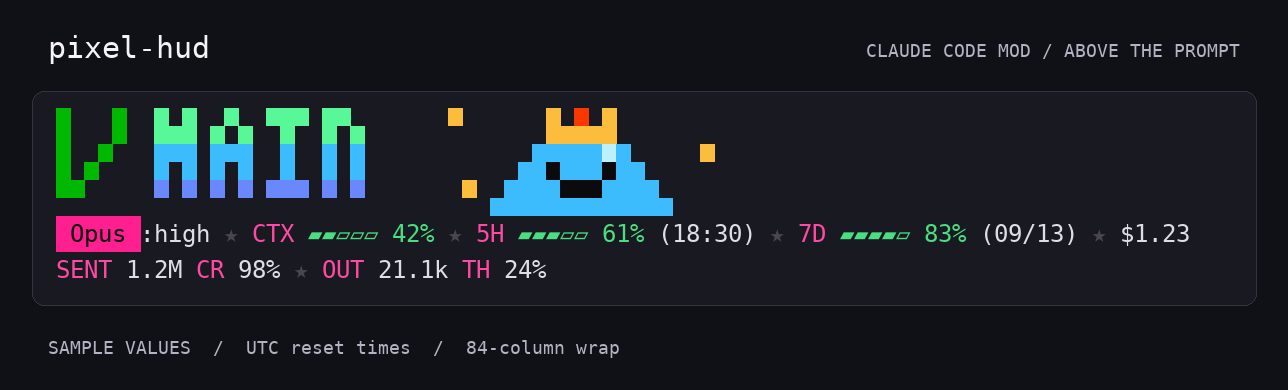
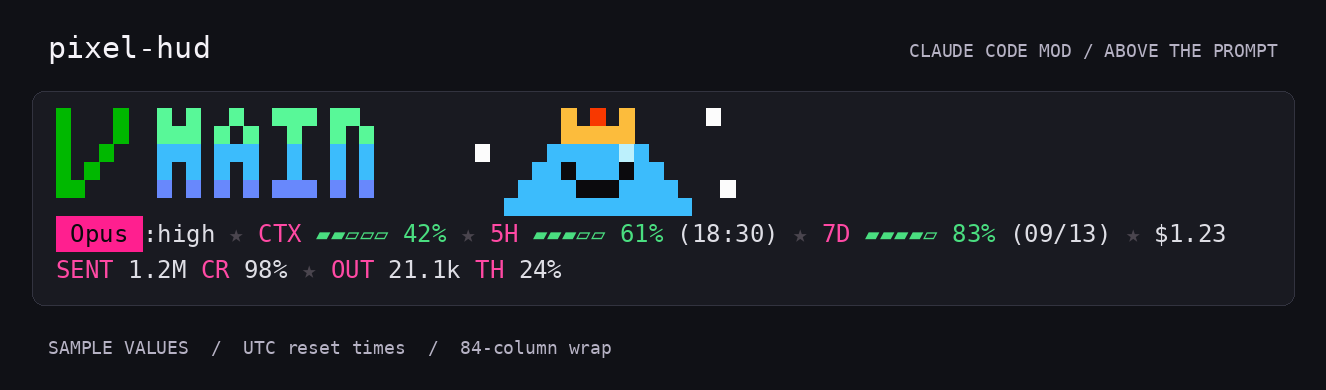
docs: King Slime show as a GIF, rendered tick by tick from the mod

diff --git a/docs/showcase/render_mod.py b/docs/showcase/render_mod.py
@@ -21,6 +21,8 @@ parser = argparse.ArgumentParser(description=__doc__)
 parser.add_argument("--font", default="/usr/share/fonts/truetype/dejavu/DejaVuSansMono.ttf")
 parser.add_argument("--king", action="store_true",
                     help="draw the King Slime show after a long task (pixel-hud-king.png)")
+parser.add_argument("--gif", action="store_true",
+                    help="animate the whole King Slime show, one frame a tick (pixel-hud-king.gif)")
 args = parser.parse_args()
 font = ImageFont.truetype(args.font, 24)
 small = ImageFont.truetype(args.font, 18)
@@ -58,6 +60,7 @@ COLUMNS = 84
 
 SHOWCASE_TEST = """
 import { mock, test } from 'claude-code/testing'
+import { KING_SHOW_TICKS } from './slime'
 
 test('showcase', async ($, on) => {
   on('process.run', async (_$, e) => ({
@@ -98,7 +101,18 @@ test('showcase', async ($, on) => {
     await ui.unmount()
     ui = await $.ui.mount({ plugin: 'pixel-hud', surface: 'terminal', component: 'AbovePrompt', props })
   }
-  console.log('SHOWCASE' + JSON.stringify(await ui.drawn()))
+  if (FRAMES > 0) {
+    // A task of a minute ends; one drawing a tick, from the slimes at rest
+    // through the whole show and home again.
+    console.log('SHOWCASE' + JSON.stringify(await ui.drawn()))
+    await $.turn.complete({ answer: '', durationMs: 60_000, isAborted: false, turnId: 't', reason: 'answer' })
+    for (let i = 0; i < FRAMES; i += 1) {
+      await ui.unmount()
+      ui = await $.ui.mount({ plugin: 'pixel-hud', surface: 'terminal', component: 'AbovePrompt', props })
+      console.log('SHOWCASE' + JSON.stringify(await ui.drawn()))
+      await clock.advance(140)
+    }
+  } else console.log('SHOWCASE' + JSON.stringify(await ui.drawn()))
   await ui.unmount()
 })
 """
@@ -112,14 +126,15 @@ with tempfile.TemporaryDirectory() as tmp:
               .replace("USAGE", json.dumps(usage))
               .replace("TRANSCRIPT", json.dumps(transcript))
               .replace("COLUMNS", str(COLUMNS))
-              .replace("KING", "true" if args.king else "false"))
+              .replace("if (KING)", "if (true)" if args.king else "if (false)")
+              .replace("FRAMES", "KING_SHOW_TICKS + 6" if args.gif else "0"))
     (copy / "hooks" / "showcase.test.tsx").write_text(source)
     run = subprocess.run(["claude", "plugin", "test", str(copy)], text=True,
                          capture_output=True)
-    found = re.search(r"^SHOWCASE(.*)$", run.stdout + run.stderr, re.M)
+    found = re.findall(r"^SHOWCASE(.*)$", run.stdout + run.stderr, re.M)
     if not found:
         raise SystemExit(f"the mod drew nothing:\n{run.stdout}\n{run.stderr}")
-    tree = json.loads(found.group(1))
+    trees = [json.loads(f) for f in found]
 
 
 INK = "#dedee5"
@@ -163,43 +178,60 @@ def layout(node):
     return rows
 
 
-# The meter row wraps at COLUMNS the way a terminal wraps it.
-rows = []
-for cells in layout(tree):
-    if not cells:
-        continue
-    for start in range(0, len(cells), COLUMNS):
-        rows.append(cells[start:start + COLUMNS])
+# Paints one drawing of the mod; the meter row wraps at COLUMNS the way a
+# terminal wraps it.
+def paint(tree):
+    rows = []
+    for cells in layout(tree):
+        if not cells:
+            continue
+        for start in range(0, len(cells), COLUMNS):
+            rows.append(cells[start:start + COLUMNS])
 
-cell_width = font.getlength("M")
-row_height = 36
-width = round(COLUMNS * cell_width) + 112
-height = 210 + len(rows) * row_height
-canvas = Image.new("RGB", (width, height), "#101116")
-draw = ImageDraw.Draw(canvas)
-draw.text((48, 30), "pixel-hud", font=title, fill="#f5f3f8")
-draw.text((width - 48, 40), "CLAUDE CODE MOD / ABOVE THE PROMPT", font=small,
-          fill="#b6b2c4", anchor="ra")
-draw.rounded_rectangle((32, 91, width - 32, 125 + len(rows) * row_height),
-                       radius=12, fill="#191a21", outline="#32333f")
-for r, cells in enumerate(rows):
-    y = 108 + r * row_height
-    for c, (char, fg, bg) in enumerate(cells):
-        x = 56 + c * cell_width
-        if bg:
-            draw.rectangle((x, y, x + cell_width, y + row_height - 1), fill=bg)
-        # Half blocks are drawn as the pixels they stand for, so the letters are
-        # solid at any font's line height.
-        if char == "█":
-            draw.rectangle((x, y, x + cell_width, y + row_height - 1), fill=fg)
-        elif char == "▀":
-            draw.rectangle((x, y, x + cell_width, y + row_height / 2 - 1), fill=fg)
-        elif char == "▄":
-            draw.rectangle((x, y + row_height / 2, x + cell_width, y + row_height - 1), fill=fg)
-        elif char != " ":
-            draw.text((x, y + 26), char, font=font, fill=fg, anchor="ls")
-draw.text((48, height - 53), "SAMPLE VALUES  /  UTC reset times  /  84-column wrap",
-          font=small, fill="#b6b2c4")
+    cell_width = font.getlength("M")
+    row_height = 36
+    width = round(COLUMNS * cell_width) + 112
+    height = 210 + len(rows) * row_height
+    canvas = Image.new("RGB", (width, height), "#101116")
+    draw = ImageDraw.Draw(canvas)
+    draw.text((48, 30), "pixel-hud", font=title, fill="#f5f3f8")
+    draw.text((width - 48, 40), "CLAUDE CODE MOD / ABOVE THE PROMPT", font=small,
+              fill="#b6b2c4", anchor="ra")
+    draw.rounded_rectangle((32, 91, width - 32, 125 + len(rows) * row_height),
+                           radius=12, fill="#191a21", outline="#32333f")
+    for r, cells in enumerate(rows):
+        y = 108 + r * row_height
+        for c, (char, fg, bg) in enumerate(cells):
+            x = 56 + c * cell_width
+            if bg:
+                draw.rectangle((x, y, x + cell_width, y + row_height - 1), fill=bg)
+            # Half blocks are drawn as the pixels they stand for, so the letters are
+            # solid at any font's line height.
+            if char == "█":
+                draw.rectangle((x, y, x + cell_width, y + row_height - 1), fill=fg)
+            elif char == "▀":
+                draw.rectangle((x, y, x + cell_width, y + row_height / 2 - 1), fill=fg)
+            elif char == "▄":
+                draw.rectangle((x, y + row_height / 2, x + cell_width, y + row_height - 1), fill=fg)
+            elif char != " ":
+                draw.text((x, y + 26), char, font=font, fill=fg, anchor="ls")
+    draw.text((48, height - 53), "SAMPLE VALUES  /  UTC reset times  /  84-column wrap",
+              font=small, fill="#b6b2c4")
+    return canvas, rows
+
+
+if args.gif:
+    frames = [paint(tree)[0] for tree in trees]
+    # The slimes at rest a moment, then the show at the slimes' own pace.
+    durations = [1200] + [140] * (len(frames) - 2) + [1200]
+    output = HERE / "pixel-hud-king.gif"
+    frames[0].save(output, save_all=True, append_images=frames[1:], duration=durations,
+                   loop=0, optimize=True)
+    width, height = frames[0].size
+    print(f"Wrote {output} ({width} x {height}, {len(frames)} frames)")
+    raise SystemExit
+canvas, rows = paint(trees[-1])
+width, height = canvas.size
 output = HERE / ("pixel-hud-king.png" if args.king else "pixel-hud.png")
 canvas.save(output)
 for cells in rows:

diff --git a/README.md b/README.md
@@ -69,17 +69,18 @@ pixel letters on top. It needs no Node.js and no `statusLine` setting.
 ![pixel-hud: the branch main in 8-bit pixel letters, four pixel-art slimes beside it, above hudline's neon line.](https://raw.githubusercontent.com/huijoson/hudline/main/docs/showcase/pixel-hud.png)
 
 Beside the branch sits a slime family: a slime, a she-slime, a metal slime and a
-bubble slime. When a task of 20 seconds or more finishes, they gather, merge
-into a crowned **King Slime** that reigns for a few seconds, then split and go
-home. Type `/slime-king` to see it any time.
+bubble slime. When a task of 20 seconds or more finishes, they leap toward each
+other in two hops, collide in mid-air and land as one, a crowned **King Slime**
+that reigns for a few seconds, then leap back home. Type `/slime-king` to see
+it any time.
 
 They sit still by default. To make them hop, each in its own time, turn on
 **Slimes hop** for pixel-hud in `/config` (the `slimesHop` option).
 
-![pixel-hud after a long task: the slimes merged into a crowned King Slime beside the branch.](https://raw.githubusercontent.com/huijoson/hudline/main/docs/showcase/pixel-hud-king.png)
+![pixel-hud after a long task: the slimes leap together, merge into a crowned King Slime beside the branch, then leap back home.](https://raw.githubusercontent.com/huijoson/hudline/main/docs/showcase/pixel-hud-king.gif)
 
-*Rendered from the mod's own drawing with the same sample values as the image
-above; [reproduce them](docs/showcase/README.md#the-mod-image).*
+*Rendered from the mod's own drawing, one frame a tick, with the same sample
+values as the image above; [reproduce them](docs/showcase/README.md#the-mod-image).*
 
 Install it from a terminal session of Claude Code 2.1.294 or newer:
 

diff --git a/docs/showcase/README.md b/docs/showcase/README.md
@@ -39,10 +39,14 @@ or newer) besides Pillow and the font:
 ```sh
 /tmp/hudline-showcase-venv/bin/python docs/showcase/render_mod.py
 /tmp/hudline-showcase-venv/bin/python docs/showcase/render_mod.py --king
+/tmp/hudline-showcase-venv/bin/python docs/showcase/render_mod.py --gif
 ```
 
 The second draws `pixel-hud-king.png`: a task of a minute ends, and the image
 catches the King Slime mid-reign, 22 ticks of the slimes' clock later.
+The third draws `pixel-hud-king.gif`, the README's demo: the same task, one
+frame for each tick of the slimes' 140 ms clock, from the slimes at rest through
+the whole show and home again. Pillow folds repeated frames into one.
 
 The script copies the mod to a temporary folder, adds one test that hands it
 the sample figures through Claude Code's own plugin test host, and runs
